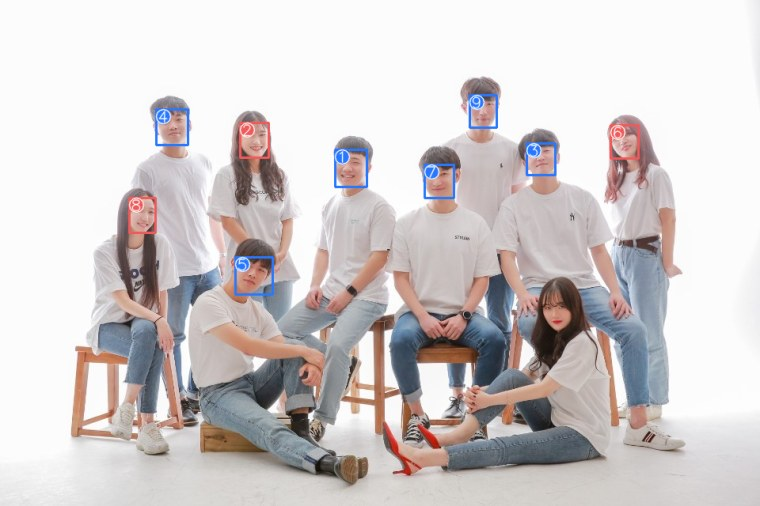
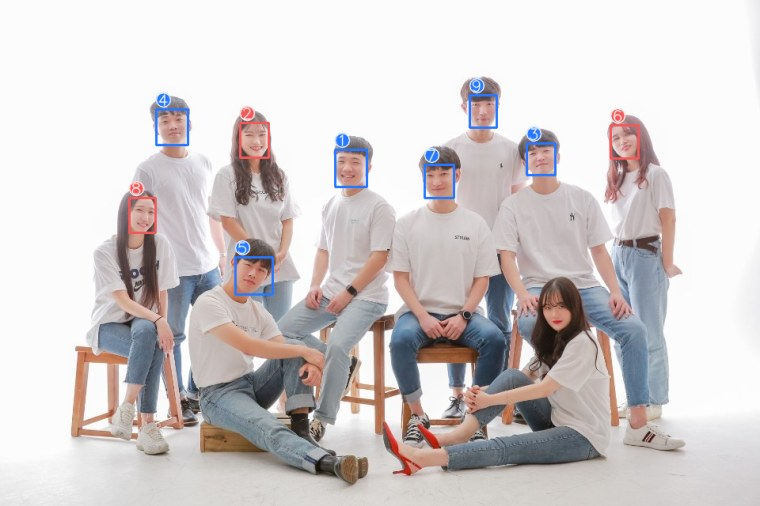
Place face badges above the box so they never cover the face
draw(): move the numbered badge from inside the top-left corner to just
above the box's top edge; regenerate sample annotations.

diff --git a/hf-spaces/compute/inference.py b/hf-spaces/compute/inference.py
@@ -90,9 +90,11 @@ def draw(rgb, results):
         x1, y1, x2, y2 = r["box"]
         col = _MALE_BGR if r["gender"] == "Male" else _FEMALE_BGR
         cv2.rectangle(img, (x1, y1), (x2, y2), col, 2)
-        # numbered badge at the box's top-left corner; number matches the card list
+        # numbered badge just above the box (outside, so it never covers the face);
+        # number matches the card list
         rad = int(max(9, min(18, (x2 - x1) / 7)))
-        cx, cy = x1 + rad, y1 + rad
+        cx = x1 + rad
+        cy = max(rad + 1, y1 - rad - 3)
         cv2.circle(img, (cx, cy), rad, col, -1, cv2.LINE_AA)
         cv2.circle(img, (cx, cy), rad, (255, 255, 255), 1, cv2.LINE_AA)
         label = str(i)
